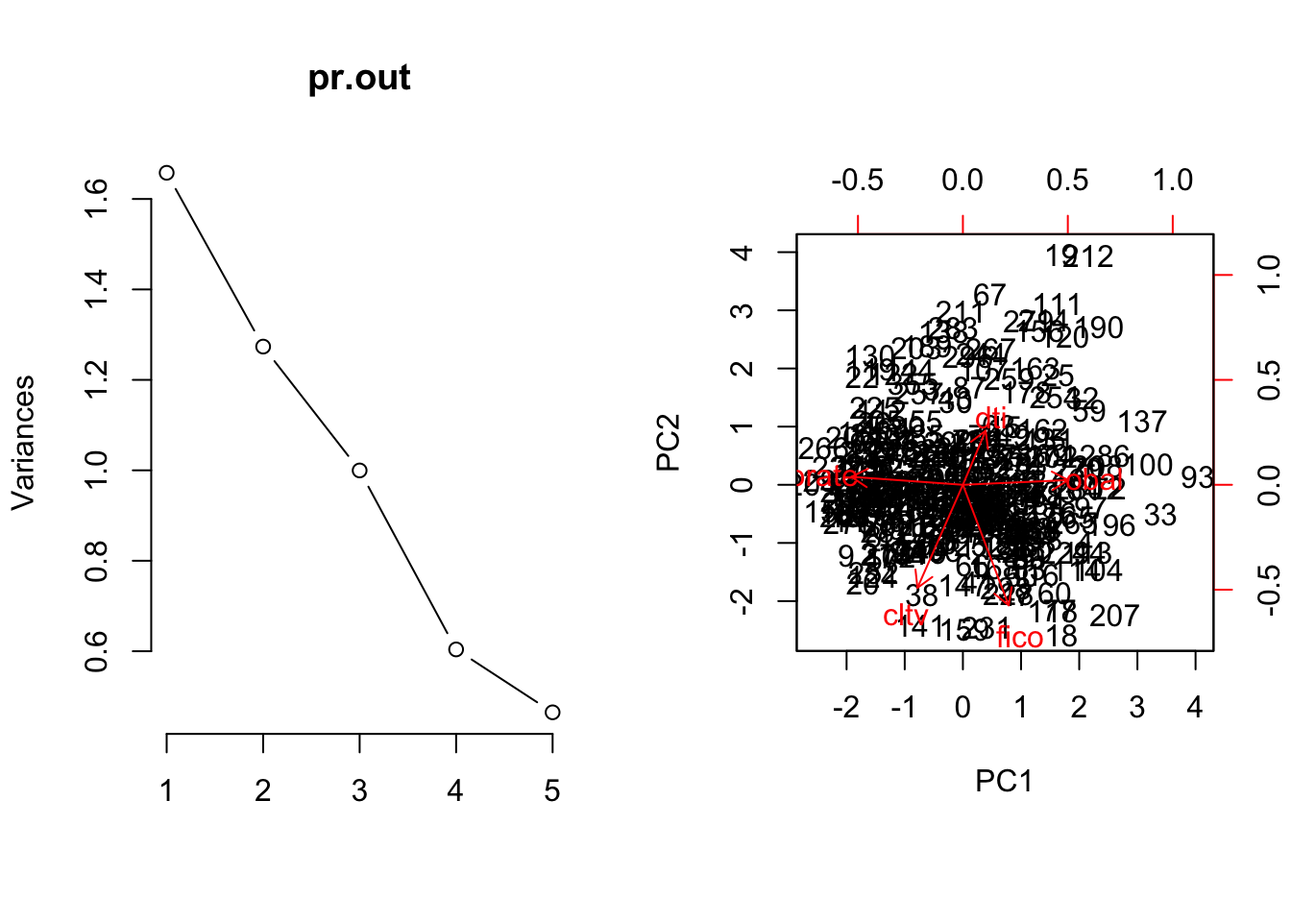
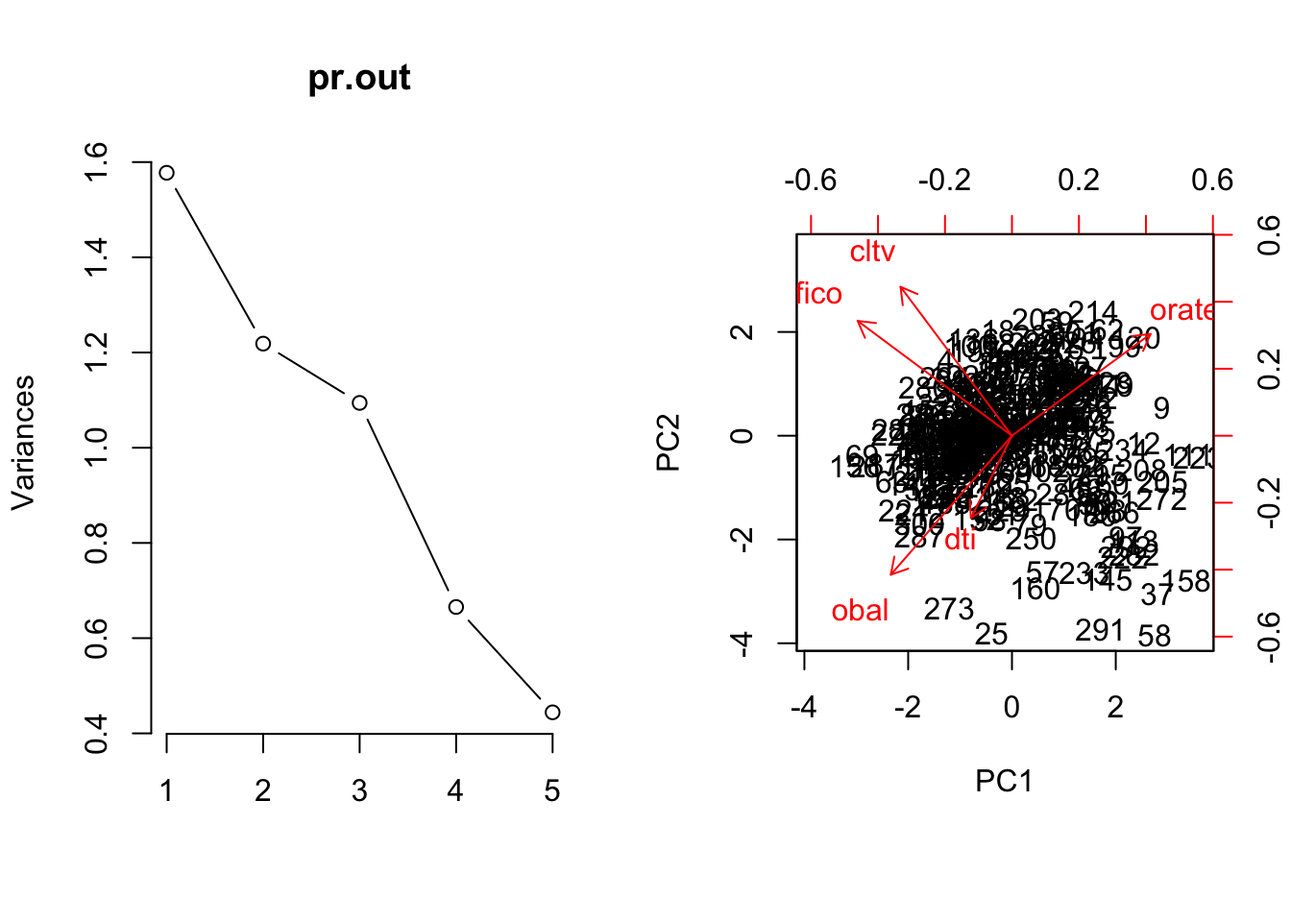
correct typos in 03

diff --git a/_book/the-subprime-mortgage-crisis-unfolds-in-early-2007-part-1.html b/_book/the-subprime-mortgage-crisis-unfolds-in-early-2007-part-1.html
@@ -33,7 +33,7 @@
   
   
 <link rel="prev" href="dectab.html">
-<link rel="next" href="runs-test-is-it-even-worthwhile-pursuing-with-all-the-nans.html">
+<link rel="next" href="the-subprime-mortgage-crisis-unfolds-in-early-2007-part-2.html">
 <script src="libs/jquery-2.2.3/jquery.min.js"></script>
 <link href="libs/gitbook-2.6.7/css/style.css" rel="stylesheet" />
 <link href="libs/gitbook-2.6.7/css/plugin-bookdown.css" rel="stylesheet" />
@@ -119,62 +119,54 @@
 </ul></li>
 <li class="chapter" data-level="4.5" data-path="the-subprime-mortgage-crisis-unfolds-in-early-2007-part-1.html"><a href="the-subprime-mortgage-crisis-unfolds-in-early-2007-part-1.html#results-at-this-point"><i class="fa fa-check"></i><b>4.5</b> Results at this point</a></li>
 </ul></li>
-<li class="chapter" data-level="5" data-path="runs-test-is-it-even-worthwhile-pursuing-with-all-the-nans.html"><a href="runs-test-is-it-even-worthwhile-pursuing-with-all-the-nans.html"><i class="fa fa-check"></i><b>5</b> runs.test: Is it even worthwhile pursuing with all the NaNs?</a><ul>
-<li class="chapter" data-level="5.1" data-path="runs-test-is-it-even-worthwhile-pursuing-with-all-the-nans.html"><a href="runs-test-is-it-even-worthwhile-pursuing-with-all-the-nans.html#principal-component-analysis"><i class="fa fa-check"></i><b>5.1</b> Principal component analysis</a></li>
+<li class="chapter" data-level="5" data-path="the-subprime-mortgage-crisis-unfolds-in-early-2007-part-2.html"><a href="the-subprime-mortgage-crisis-unfolds-in-early-2007-part-2.html"><i class="fa fa-check"></i><b>5</b> The subprime mortgage crisis unfolds in early 2007, part 2</a><ul>
+<li class="chapter" data-level="5.1" data-path="the-subprime-mortgage-crisis-unfolds-in-early-2007-part-2.html"><a href="the-subprime-mortgage-crisis-unfolds-in-early-2007-part-2.html#the-fall-of-fico"><i class="fa fa-check"></i><b>5.1</b> The fall of FICO</a></li>
+<li class="chapter" data-level="5.2" data-path="the-subprime-mortgage-crisis-unfolds-in-early-2007-part-2.html"><a href="the-subprime-mortgage-crisis-unfolds-in-early-2007-part-2.html#restructuring-the-data"><i class="fa fa-check"></i><b>5.2</b> Restructuring the data</a></li>
+<li class="chapter" data-level="5.3" data-path="the-subprime-mortgage-crisis-unfolds-in-early-2007-part-2.html"><a href="the-subprime-mortgage-crisis-unfolds-in-early-2007-part-2.html#principal-component-analysis"><i class="fa fa-check"></i><b>5.3</b> Principal component analysis</a></li>
 </ul></li>
-<li class="chapter" data-level="6" data-path="the-subprime-mortgage-crisis-unfolds-in-early-2007-part-2.html"><a href="the-subprime-mortgage-crisis-unfolds-in-early-2007-part-2.html"><i class="fa fa-check"></i><b>6</b> The subprime mortgage crisis unfolds in early 2007, part 2</a><ul>
-<li class="chapter" data-level="6.1" data-path="the-subprime-mortgage-crisis-unfolds-in-early-2007-part-2.html"><a href="the-subprime-mortgage-crisis-unfolds-in-early-2007-part-2.html#the-fall-of-fico"><i class="fa fa-check"></i><b>6.1</b> The fall of FICO</a></li>
-<li class="chapter" data-level="6.2" data-path="the-subprime-mortgage-crisis-unfolds-in-early-2007-part-2.html"><a href="the-subprime-mortgage-crisis-unfolds-in-early-2007-part-2.html#restructuring-the-data"><i class="fa fa-check"></i><b>6.2</b> Restructuring the data</a></li>
+<li class="chapter" data-level="6" data-path="the-enron-email-corpus.html"><a href="the-enron-email-corpus.html"><i class="fa fa-check"></i><b>6</b> The Enron Email Corpus</a><ul>
+<li class="chapter" data-level="6.1" data-path="the-enron-email-corpus.html"><a href="the-enron-email-corpus.html#case-description-2"><i class="fa fa-check"></i><b>6.1</b> Case Description</a></li>
+<li class="chapter" data-level="6.2" data-path="the-enron-email-corpus.html"><a href="the-enron-email-corpus.html#data-preparation"><i class="fa fa-check"></i><b>6.2</b> Data preparation</a><ul>
+<li class="chapter" data-level="6.2.1" data-path="the-enron-email-corpus.html"><a href="the-enron-email-corpus.html#preparation"><i class="fa fa-check"></i><b>6.2.1</b> Preparation</a></li>
 </ul></li>
-<li class="chapter" data-level="7" data-path="the-enron-email-corpus.html"><a href="the-enron-email-corpus.html"><i class="fa fa-check"></i><b>7</b> The Enron Email Corpus</a><ul>
-<li class="chapter" data-level="7.1" data-path="the-enron-email-corpus.html"><a href="the-enron-email-corpus.html#case-description-2"><i class="fa fa-check"></i><b>7.1</b> Case Description</a></li>
-<li class="chapter" data-level="7.2" data-path="the-enron-email-corpus.html"><a href="the-enron-email-corpus.html#data-preparation"><i class="fa fa-check"></i><b>7.2</b> Data preparation</a><ul>
-<li class="chapter" data-level="7.2.1" data-path="the-enron-email-corpus.html"><a href="the-enron-email-corpus.html#preparation"><i class="fa fa-check"></i><b>7.2.1</b> Preparation</a></li>
+<li class="chapter" data-level="6.3" data-path="the-enron-email-corpus.html"><a href="the-enron-email-corpus.html#strategy-for-exploration"><i class="fa fa-check"></i><b>6.3</b> Strategy for exploration</a><ul>
+<li class="chapter" data-level="6.3.1" data-path="the-enron-email-corpus.html"><a href="the-enron-email-corpus.html#dont-look-for-much-from-the-big-shots"><i class="fa fa-check"></i><b>6.3.1</b> Don’t look for much from the big shots</a></li>
+<li class="chapter" data-level="6.3.2" data-path="the-enron-email-corpus.html"><a href="the-enron-email-corpus.html#volume-is-not-evenly-distributed-among-users"><i class="fa fa-check"></i><b>6.3.2</b> Volume is not evenly distributed among users</a></li>
+<li class="chapter" data-level="6.3.3" data-path="the-enron-email-corpus.html"><a href="the-enron-email-corpus.html#keywords-may-not-help-much"><i class="fa fa-check"></i><b>6.3.3</b> Keywords may not help much</a></li>
+<li class="chapter" data-level="6.3.4" data-path="the-enron-email-corpus.html"><a href="the-enron-email-corpus.html#dont-neglect-time-series"><i class="fa fa-check"></i><b>6.3.4</b> Don’t neglect time series</a></li>
+<li class="chapter" data-level="6.3.5" data-path="the-enron-email-corpus.html"><a href="the-enron-email-corpus.html#avoid-the-echo-chamber"><i class="fa fa-check"></i><b>6.3.5</b> Avoid the echo chamber</a></li>
+<li class="chapter" data-level="6.3.6" data-path="the-enron-email-corpus.html"><a href="the-enron-email-corpus.html#the-real-value-proposition"><i class="fa fa-check"></i><b>6.3.6</b> The REAL value proposition</a></li>
 </ul></li>
-<li class="chapter" data-level="7.3" data-path="the-enron-email-corpus.html"><a href="the-enron-email-corpus.html#strategy-for-exploration"><i class="fa fa-check"></i><b>7.3</b> Strategy for exploration</a><ul>
-<li class="chapter" data-level="7.3.1" data-path="the-enron-email-corpus.html"><a href="the-enron-email-corpus.html#dont-look-for-much-from-the-big-shots"><i class="fa fa-check"></i><b>7.3.1</b> Don’t look for much from the big shots</a></li>
-<li class="chapter" data-level="7.3.2" data-path="the-enron-email-corpus.html"><a href="the-enron-email-corpus.html#volume-is-not-evenly-distributed-among-users"><i class="fa fa-check"></i><b>7.3.2</b> Volume is not evenly distributed among users</a></li>
-<li class="chapter" data-level="7.3.3" data-path="the-enron-email-corpus.html"><a href="the-enron-email-corpus.html#keywords-may-not-help-much"><i class="fa fa-check"></i><b>7.3.3</b> Keywords may not help much</a></li>
-<li class="chapter" data-level="7.3.4" data-path="the-enron-email-corpus.html"><a href="the-enron-email-corpus.html#dont-neglect-time-series"><i class="fa fa-check"></i><b>7.3.4</b> Don’t neglect time series</a></li>
-<li class="chapter" data-level="7.3.5" data-path="the-enron-email-corpus.html"><a href="the-enron-email-corpus.html#avoid-the-echo-chamber"><i class="fa fa-check"></i><b>7.3.5</b> Avoid the echo chamber</a></li>
-<li class="chapter" data-level="7.3.6" data-path="the-enron-email-corpus.html"><a href="the-enron-email-corpus.html#the-real-value-proposition"><i class="fa fa-check"></i><b>7.3.6</b> The REAL value proposition</a></li>
+<li class="chapter" data-level="6.4" data-path="the-enron-email-corpus.html"><a href="the-enron-email-corpus.html#some-preliminary-results"><i class="fa fa-check"></i><b>6.4</b> Some preliminary results</a><ul>
+<li class="chapter" data-level="6.4.1" data-path="the-enron-email-corpus.html"><a href="the-enron-email-corpus.html#unique-senders"><i class="fa fa-check"></i><b>6.4.1</b> Unique senders</a></li>
+<li class="chapter" data-level="6.4.2" data-path="the-enron-email-corpus.html"><a href="the-enron-email-corpus.html#unique-receivers"><i class="fa fa-check"></i><b>6.4.2</b> Unique receivers</a></li>
+<li class="chapter" data-level="6.4.3" data-path="the-enron-email-corpus.html"><a href="the-enron-email-corpus.html#senders-who-are-also-receivers"><i class="fa fa-check"></i><b>6.4.3</b> Senders who are also receivers</a></li>
+<li class="chapter" data-level="6.4.4" data-path="the-enron-email-corpus.html"><a href="the-enron-email-corpus.html#senderreceivers-with-enron-addresses"><i class="fa fa-check"></i><b>6.4.4</b> Sender/receivers with Enron addresses</a></li>
+<li class="chapter" data-level="6.4.5" data-path="the-enron-email-corpus.html"><a href="the-enron-email-corpus.html#subject-line-words"><i class="fa fa-check"></i><b>6.4.5</b> Subject line words</a></li>
+<li class="chapter" data-level="6.4.6" data-path="the-enron-email-corpus.html"><a href="the-enron-email-corpus.html#places-mentioned"><i class="fa fa-check"></i><b>6.4.6</b> Places mentioned</a></li>
+<li class="chapter" data-level="6.4.7" data-path="the-enron-email-corpus.html"><a href="the-enron-email-corpus.html#periodicity"><i class="fa fa-check"></i><b>6.4.7</b> Periodicity</a></li>
+<li class="chapter" data-level="6.4.8" data-path="the-enron-email-corpus.html"><a href="the-enron-email-corpus.html#social-networks"><i class="fa fa-check"></i><b>6.4.8</b> Social Networks</a></li>
 </ul></li>
-<li class="chapter" data-level="7.4" data-path="the-enron-email-corpus.html"><a href="the-enron-email-corpus.html#some-preliminary-results"><i class="fa fa-check"></i><b>7.4</b> Some preliminary results</a><ul>
-<li class="chapter" data-level="7.4.1" data-path="the-enron-email-corpus.html"><a href="the-enron-email-corpus.html#unique-senders"><i class="fa fa-check"></i><b>7.4.1</b> Unique senders</a></li>
-<li class="chapter" data-level="7.4.2" data-path="the-enron-email-corpus.html"><a href="the-enron-email-corpus.html#unique-receivers"><i class="fa fa-check"></i><b>7.4.2</b> Unique receivers</a></li>
-<li class="chapter" data-level="7.4.3" data-path="the-enron-email-corpus.html"><a href="the-enron-email-corpus.html#senders-who-are-also-receivers"><i class="fa fa-check"></i><b>7.4.3</b> Senders who are also receivers</a></li>
-<li class="chapter" data-level="7.4.4" data-path="the-enron-email-corpus.html"><a href="the-enron-email-corpus.html#senderreceivers-with-enron-addresses"><i class="fa fa-check"></i><b>7.4.4</b> Sender/receivers with Enron addresses</a></li>
-<li class="chapter" data-level="7.4.5" data-path="the-enron-email-corpus.html"><a href="the-enron-email-corpus.html#subject-line-words"><i class="fa fa-check"></i><b>7.4.5</b> Subject line words</a></li>
-<li class="chapter" data-level="7.4.6" data-path="the-enron-email-corpus.html"><a href="the-enron-email-corpus.html#places-mentioned"><i class="fa fa-check"></i><b>7.4.6</b> Places mentioned</a></li>
-<li class="chapter" data-level="7.4.7" data-path="the-enron-email-corpus.html"><a href="the-enron-email-corpus.html#periodicity"><i class="fa fa-check"></i><b>7.4.7</b> Periodicity</a></li>
-<li class="chapter" data-level="7.4.8" data-path="the-enron-email-corpus.html"><a href="the-enron-email-corpus.html#social-networks"><i class="fa fa-check"></i><b>7.4.8</b> Social Networks</a></li>
+<li class="chapter" data-level="6.5" data-path="the-enron-email-corpus.html"><a href="the-enron-email-corpus.html#future-work"><i class="fa fa-check"></i><b>6.5</b> Future work</a></li>
 </ul></li>
-<li class="chapter" data-level="7.5" data-path="the-enron-email-corpus.html"><a href="the-enron-email-corpus.html#future-work"><i class="fa fa-check"></i><b>7.5</b> Future work</a></li>
+<li class="chapter" data-level="7" data-path="daycare.html"><a href="daycare.html"><i class="fa fa-check"></i><b>7</b> Daycare Costs and Unexamined Assumptions</a><ul>
+<li class="chapter" data-level="7.1" data-path="daycare.html"><a href="daycare.html#case-description-3"><i class="fa fa-check"></i><b>7.1</b> Case Description</a></li>
+<li class="chapter" data-level="7.2" data-path="daycare.html"><a href="daycare.html#with-the-right-metrics"><i class="fa fa-check"></i><b>7.2</b> With the right metrics</a></li>
+<li class="chapter" data-level="7.3" data-path="daycare.html"><a href="daycare.html#takeaway"><i class="fa fa-check"></i><b>7.3</b> Takeaway</a></li>
 </ul></li>
-<li class="chapter" data-level="8" data-path="daycare.html"><a href="daycare.html"><i class="fa fa-check"></i><b>8</b> Daycare Costs and Unexamined Assumptions</a><ul>
-<li class="chapter" data-level="8.1" data-path="daycare.html"><a href="daycare.html#case-description-3"><i class="fa fa-check"></i><b>8.1</b> Case Description</a></li>
-<li class="chapter" data-level="8.2" data-path="daycare.html"><a href="daycare.html#with-the-right-metrics"><i class="fa fa-check"></i><b>8.2</b> With the right metrics</a></li>
-<li class="chapter" data-level="8.3" data-path="daycare.html"><a href="daycare.html#takeaway"><i class="fa fa-check"></i><b>8.3</b> Takeaway</a></li>
+<li class="chapter" data-level="8" data-path="assorted-examples-of-toolmaking.html"><a href="assorted-examples-of-toolmaking.html"><i class="fa fa-check"></i><b>8</b> Assorted Examples of Toolmaking</a><ul>
+<li class="chapter" data-level="8.1" data-path="assorted-examples-of-toolmaking.html"><a href="assorted-examples-of-toolmaking.html#the-short-genome-file-day-to-day-python"><i class="fa fa-check"></i><b>8.1</b> The Short Genome File: Day-to-Day Python</a><ul>
+<li class="chapter" data-level="8.1.1" data-path="assorted-examples-of-toolmaking.html"><a href="assorted-examples-of-toolmaking.html#case-description-4"><i class="fa fa-check"></i><b>8.1.1</b> Case Description</a></li>
+<li class="chapter" data-level="8.1.2" data-path="assorted-examples-of-toolmaking.html"><a href="assorted-examples-of-toolmaking.html#conversion-problem"><i class="fa fa-check"></i><b>8.1.2</b> Conversion Problem</a></li>
+<li class="chapter" data-level="8.1.3" data-path="assorted-examples-of-toolmaking.html"><a href="assorted-examples-of-toolmaking.html#everyday-solution"><i class="fa fa-check"></i><b>8.1.3</b> Everyday Solution</a></li>
 </ul></li>
-<li class="chapter" data-level="9" data-path="assorted-examples-of-toolmaking.html"><a href="assorted-examples-of-toolmaking.html"><i class="fa fa-check"></i><b>9</b> Assorted Examples of Toolmaking</a><ul>
-<li class="chapter" data-level="9.1" data-path="assorted-examples-of-toolmaking.html"><a href="assorted-examples-of-toolmaking.html#the-short-genome-file-day-to-day-python"><i class="fa fa-check"></i><b>9.1</b> The Short Genome File: Day-to-Day Python</a><ul>
-<li class="chapter" data-level="9.1.1" data-path="assorted-examples-of-toolmaking.html"><a href="assorted-examples-of-toolmaking.html#case-description-4"><i class="fa fa-check"></i><b>9.1.1</b> Case Description</a></li>
-<li class="chapter" data-level="9.1.2" data-path="assorted-examples-of-toolmaking.html"><a href="assorted-examples-of-toolmaking.html#conversion-problem"><i class="fa fa-check"></i><b>9.1.2</b> Conversion Problem</a></li>
-<li class="chapter" data-level="9.1.3" data-path="assorted-examples-of-toolmaking.html"><a href="assorted-examples-of-toolmaking.html#everyday-solution"><i class="fa fa-check"></i><b>9.1.3</b> Everyday Solution</a></li>
+<li class="chapter" data-level="8.2" data-path="assorted-examples-of-toolmaking.html"><a href="assorted-examples-of-toolmaking.html#hard-but-simple-parsing-yaml-files-in-haskell"><i class="fa fa-check"></i><b>8.2</b> Hard but simple – parsing YAML files in Haskell</a></li>
+<li class="chapter" data-level="8.3" data-path="assorted-examples-of-toolmaking.html"><a href="assorted-examples-of-toolmaking.html#contextual-awareness"><i class="fa fa-check"></i><b>8.3</b> Contextual Awareness</a></li>
+<li class="chapter" data-level="8.4" data-path="assorted-examples-of-toolmaking.html"><a href="assorted-examples-of-toolmaking.html#minimalism-throws-you-into-the-pool"><i class="fa fa-check"></i><b>8.4</b> Minimalism Throws You into the Pool</a></li>
+<li class="chapter" data-level="8.5" data-path="assorted-examples-of-toolmaking.html"><a href="assorted-examples-of-toolmaking.html#parsing-system-date-strings-into-python-datetime-objects"><i class="fa fa-check"></i><b>8.5</b> Parsing system date strings into Python datetime objects</a></li>
+<li class="chapter" data-level="8.6" data-path="assorted-examples-of-toolmaking.html"><a href="assorted-examples-of-toolmaking.html#combination-of-k-items-taken-n-at-a-time"><i class="fa fa-check"></i><b>8.6</b> Combination of k items, taken n at a time</a></li>
+<li class="chapter" data-level="8.7" data-path="assorted-examples-of-toolmaking.html"><a href="assorted-examples-of-toolmaking.html#flexbison-to-compile-data-parser-for-june-20-2018-form"><i class="fa fa-check"></i><b>8.7</b> Flex/Bison to compile data parser for June 20, 2018 form</a></li>
 </ul></li>
-<li class="chapter" data-level="9.2" data-path="assorted-examples-of-toolmaking.html"><a href="assorted-examples-of-toolmaking.html#hard-but-simple-parsing-yaml-files-in-haskell"><i class="fa fa-check"></i><b>9.2</b> Hard but simple – parsing YAML files in Haskell</a></li>
-<li class="chapter" data-level="9.3" data-path="assorted-examples-of-toolmaking.html"><a href="assorted-examples-of-toolmaking.html#contextual-awareness"><i class="fa fa-check"></i><b>9.3</b> Contextual Awareness</a></li>
-<li class="chapter" data-level="9.4" data-path="assorted-examples-of-toolmaking.html"><a href="assorted-examples-of-toolmaking.html#minimalism-throws-you-into-the-pool"><i class="fa fa-check"></i><b>9.4</b> Minimalism Throws You into the Pool</a></li>
-<li class="chapter" data-level="9.5" data-path="assorted-examples-of-toolmaking.html"><a href="assorted-examples-of-toolmaking.html#parsing-system-date-strings-into-python-datetime-objects"><i class="fa fa-check"></i><b>9.5</b> Parsing system date strings into Python datetime objects</a></li>
-<li class="chapter" data-level="9.6" data-path="assorted-examples-of-toolmaking.html"><a href="assorted-examples-of-toolmaking.html#combination-of-k-items-taken-n-at-a-time"><i class="fa fa-check"></i><b>9.6</b> Combination of k items, taken n at a time</a></li>
-<li class="chapter" data-level="9.7" data-path="assorted-examples-of-toolmaking.html"><a href="assorted-examples-of-toolmaking.html#flexbison-to-compile-data-parser-for-june-20-2018-form"><i class="fa fa-check"></i><b>9.7</b> Flex/Bison to compile data parser for June 20, 2018 form</a></li>
-</ul></li>
-<li class="chapter" data-level="10" data-path="runs-test.html"><a href="runs-test.html"><i class="fa fa-check"></i><b>10</b> Runs test</a></li>
-<li class="chapter" data-level="11" data-path="unsupervised-learning.html"><a href="unsupervised-learning.html"><i class="fa fa-check"></i><b>11</b> Unsupervised learning</a><ul>
-<li class="chapter" data-level="11.1" data-path="unsupervised-learning.html"><a href="unsupervised-learning.html#pca"><i class="fa fa-check"></i><b>11.1</b> PCA</a></li>
-<li class="chapter" data-level="11.2" data-path="unsupervised-learning.html"><a href="unsupervised-learning.html#kmeans-how-diff-knn"><i class="fa fa-check"></i><b>11.2</b> KMeans (how diff KNN?)</a></li>
-</ul></li>
-<li class="chapter" data-level="12" data-path="does-km-or-other-survival-analysis-help.html"><a href="does-km-or-other-survival-analysis-help.html"><i class="fa fa-check"></i><b>12</b> Does KM or other survival analysis help?</a></li>
 </ul>
 
       </nav>
@@ -204,13 +196,13 @@
 <li>How did our pools of mortgage loans differ?</li>
 <li>What do we mean by performance?</li>
 </ul>
-<p>We could begin, I suggested, by looking at the tape for the January 2006 deal, <a href="https://www.sec.gov/Archives/edgar/data/1119605/000114420406002461/v033798_fwp.htm">LBMLT 2006-1</a>, to see how the origination characteristics differed from competing deals. We could also pull the monthly report that showed last payment date, delinquency status and other data. He said that he’d try to get that together, but it wasn’t really his job.</p>
+<p>We could begin, I suggested, by looking at the tape for the January 2006 deal, [LBMLT 2006-1], to see how the origination characteristics differed from competing deals. We could also pull the monthly report that showed last payment date, delinquency status and other data. He said that he’d try to get that together, but it wasn’t really his job.</p>
 <p>This is the case that Donald Rumsfelt (<em>known knowns, known unknowns and unknown unknowns</em>) missed: <strong>unknown knowns,</strong> information we had that was scattered throughout the organization.</p>
 <p>It became apparent that I wasn’t going to get any help dealing with my rising sense of unease that the company faced potential liabilities as a result of these transactions. I was senior enough to set my own priorities so I decided to assemble the data to see what I could make of it.</p>
 </div>
 <div id="data-wrangling" class="section level2">
 <h2><span class="header-section-number">4.2</span> Data Wrangling</h2>
-<p>There were 14 transactions issued in 2006, all of which were accompanied by tapes similar to the <a href="https://www.sec.gov/Archives/edgar/data/1119605/000114420406002461/v033798_fwp.htm">LBMLT 2006-1</a> deal with origination data. I also looked at default data, from over 100 spreadsheets, many with manual changes, that had to be beaten into submission.</p>
+<p>There were 14 transactions issued in 2006, all of which were accompanied by tapes similar to the [LBMLT 2006-1] deal with origination data. I also looked at default data, from over 100 spreadsheets, many with manual changes, that had to be beaten into submission.</p>
 <p>Fortunately the origination tapes, while wrapped in HTML, were tagged with</p>
 <pre><code>&lt;pre&gt;payload&lt;/pre&gt; </code></pre>
 <p>pairs, making their extraction easy. One of the typical tasks was converting dates into ISO form – from 3/6/2006, say, to 2006-03-06, for which I turned to Python.</p>
@@ -348,12 +340,12 @@ def make_date(entry):
 <h2><span class="header-section-number">4.4</span> Preliminary analysis, based on FICO scores</h2>
 <div id="ficos-importance" class="section level3">
 <h3><span class="header-section-number">4.4.1</span> FICO’s importance</h3>
-<p>In 1995, Freddie Mac advised lenders that it had found that consumer credit scores developed by Fair, Issac and Company, Inc. (<strong>FICO</strong> scores) strongly predicted the likelihood of default on mortgage loans. Freddie Mac’s communication is reproduced as Attachment 2 in testimony before the U.S. House Committee on Oversight and Government Reform, the <a href="https://democrats-oversight.house.gov/sites/democrats.oversight.house.gov/files/documents/Fannie%20Freddie%20Testimony%20of%20Edward%20Pinto%2012.9.08%20written%20submission%20Full.pdf">Pinto testimony</a>, beginning at page 28 of the pdf.</p>
+<p>In 1995, Freddie Mac advised lenders that it had found that consumer credit scores developed by Fair, Issac and Company, Inc. (<strong>FICO</strong> scores) strongly predicted the likelihood of default on mortgage loans. Freddie Mac’s communication is reproduced as Attachment 2 in testimony before the U.S. House Committee on Oversight and Government Reform, the [Pinto testimony], beginning at page 28 of the pdf.</p>
 <p>A traditional description of the limitations of credit score is similar to the following:</p>
 <blockquote>
 <p>Third-party credit reporting organizations provide credit scores as an aid to lenders in evaluating the creditworthiness of borrowers. Although different credit reporting organizations use different methodologies, higher credit scores indicate greater creditworthiness. Credit scores do not necessarily correspond to the probability of default over the life of the related mortgage loan because they reflect past credit history, rather than an assessment of future payment performance. In addition, the credit scores shown were collected from a variety of sources over a period of weeks, months or longer, and the credit scores do not necessarily reflect the credit scores that would be reported as of the date of this prospectus supplement. Credit scores also only indicate general consumer creditworthiness, and credit scores are not intended to specifically apply to mortgage debt. Therefore, credit scores should not be considered as an accurate predictor of the likelihood of repayment of the related mortgage loans.</p>
 </blockquote>
-<p><em>See</em> the <a href="https://goo.gl/uhX1Pc">credit disclosure</a> beginning on page S-18 by a Washington Mutual affiliate in 2002.</p>
+<p><em>See</em> the [credit disclosure] beginning on page S-18 by a Washington Mutual affiliate in 2002.</p>
 <p>The rating agencies and buyers involved in residential mortgage backed securities, however, attached considerable importance to credit scores, generically referred to as FICOs. Therefore, the FICO composition was an obvious starting point.</p>
 <p><img src="_main_files/figure-html/setup4-1.png" width="672" /></p>
 </div>
@@ -1055,7 +1047,7 @@ LBMLT 2006-WL3
 ##  Shapiro-Wilk normality test
 ## 
 ## data:  smpB$fico
-## W = 0.99446, p-value = 5.993e-13</code></pre>
+## W = 0.99529, p-value = 1.166e-11</code></pre>
 <pre><code>## 
 ##  Shapiro-Wilk normality test
 ## 
@@ -1067,7 +1059,8 @@ LBMLT 2006-WL3
 </div>
 <div id="results-at-this-point" class="section level2">
 <h2><span class="header-section-number">4.5</span> Results at this point</h2>
-<p>The report of “poor performance” of the 2006 mortgage loans as a group was well founded, based on the 31219 loans that survived into 2007 and had an 11-month payment history. Only 46 loans had a satisfactory record, less than 0.</p>
+<p>The report of “poor performance” of the 2006 mortgage loans as a group was well founded, based on the 31219 loans that survived into 2007 and had an 11-month payment history. Only 46 loans had a satisfactory record, less than 0.15% of the pool.</p>
+
 </div>
 </div>
             </section>
@@ -1076,7 +1069,7 @@ LBMLT 2006-WL3
         </div>
       </div>
 <a href="dectab.html" class="navigation navigation-prev " aria-label="Previous page"><i class="fa fa-angle-left"></i></a>
-<a href="runs-test-is-it-even-worthwhile-pursuing-with-all-the-nans.html" class="navigation navigation-next " aria-label="Next page"><i class="fa fa-angle-right"></i></a>
+<a href="the-subprime-mortgage-crisis-unfolds-in-early-2007-part-2.html" class="navigation navigation-next " aria-label="Next page"><i class="fa fa-angle-right"></i></a>
     </div>
   </div>
 <script src="libs/gitbook-2.6.7/js/app.min.js"></script>

diff --git a/_book/the-subprime-mortgage-crisis-unfolds-in-early-2007-part-2.html b/_book/the-subprime-mortgage-crisis-unfolds-in-early-2007-part-2.html
@@ -25,7 +25,7 @@
 <meta name="author" content="Richard Careaga">
 
 
-<meta name="date" content="2018-06-30">
+<meta name="date" content="2018-07-01">
 
   <meta name="viewport" content="width=device-width, initial-scale=1">
   <meta name="apple-mobile-web-app-capable" content="yes">
@@ -117,11 +117,11 @@
 <li class="chapter" data-level="4.4.5" data-path="the-subprime-mortgage-crisis-unfolds-in-early-2007-part-1.html"><a href="the-subprime-mortgage-crisis-unfolds-in-early-2007-part-1.html#reduced-data-set"><i class="fa fa-check"></i><b>4.4.5</b> Reduced data set</a></li>
 </ul></li>
 <li class="chapter" data-level="4.5" data-path="the-subprime-mortgage-crisis-unfolds-in-early-2007-part-1.html"><a href="the-subprime-mortgage-crisis-unfolds-in-early-2007-part-1.html#results-at-this-point"><i class="fa fa-check"></i><b>4.5</b> Results at this point</a></li>
-<li class="chapter" data-level="4.6" data-path="the-subprime-mortgage-crisis-unfolds-in-early-2007-part-1.html"><a href="the-subprime-mortgage-crisis-unfolds-in-early-2007-part-1.html#next-question"><i class="fa fa-check"></i><b>4.6</b> Next question</a></li>
 </ul></li>
 <li class="chapter" data-level="5" data-path="the-subprime-mortgage-crisis-unfolds-in-early-2007-part-2.html"><a href="the-subprime-mortgage-crisis-unfolds-in-early-2007-part-2.html"><i class="fa fa-check"></i><b>5</b> The subprime mortgage crisis unfolds in early 2007, part 2</a><ul>
 <li class="chapter" data-level="5.1" data-path="the-subprime-mortgage-crisis-unfolds-in-early-2007-part-2.html"><a href="the-subprime-mortgage-crisis-unfolds-in-early-2007-part-2.html#the-fall-of-fico"><i class="fa fa-check"></i><b>5.1</b> The fall of FICO</a></li>
 <li class="chapter" data-level="5.2" data-path="the-subprime-mortgage-crisis-unfolds-in-early-2007-part-2.html"><a href="the-subprime-mortgage-crisis-unfolds-in-early-2007-part-2.html#restructuring-the-data"><i class="fa fa-check"></i><b>5.2</b> Restructuring the data</a></li>
+<li class="chapter" data-level="5.3" data-path="the-subprime-mortgage-crisis-unfolds-in-early-2007-part-2.html"><a href="the-subprime-mortgage-crisis-unfolds-in-early-2007-part-2.html#principal-component-analysis"><i class="fa fa-check"></i><b>5.3</b> Principal component analysis</a></li>
 </ul></li>
 <li class="chapter" data-level="6" data-path="the-enron-email-corpus.html"><a href="the-enron-email-corpus.html"><i class="fa fa-check"></i><b>6</b> The Enron Email Corpus</a><ul>
 <li class="chapter" data-level="6.1" data-path="the-enron-email-corpus.html"><a href="the-enron-email-corpus.html#case-description-2"><i class="fa fa-check"></i><b>6.1</b> Case Description</a></li>
@@ -166,11 +166,6 @@
 <li class="chapter" data-level="8.6" data-path="assorted-examples-of-toolmaking.html"><a href="assorted-examples-of-toolmaking.html#combination-of-k-items-taken-n-at-a-time"><i class="fa fa-check"></i><b>8.6</b> Combination of k items, taken n at a time</a></li>
 <li class="chapter" data-level="8.7" data-path="assorted-examples-of-toolmaking.html"><a href="assorted-examples-of-toolmaking.html#flexbison-to-compile-data-parser-for-june-20-2018-form"><i class="fa fa-check"></i><b>8.7</b> Flex/Bison to compile data parser for June 20, 2018 form</a></li>
 </ul></li>
-<li class="chapter" data-level="9" data-path="runs-test.html"><a href="runs-test.html"><i class="fa fa-check"></i><b>9</b> Runs test</a></li>
-<li class="chapter" data-level="10" data-path="unsupervised-learning.html"><a href="unsupervised-learning.html"><i class="fa fa-check"></i><b>10</b> Unsupervised learning</a><ul>
-<li class="chapter" data-level="10.1" data-path="unsupervised-learning.html"><a href="unsupervised-learning.html#pca"><i class="fa fa-check"></i><b>10.1</b> PCA</a></li>
-<li class="chapter" data-level="10.2" data-path="unsupervised-learning.html"><a href="unsupervised-learning.html#kmeans-how-diff-knn"><i class="fa fa-check"></i><b>10.2</b> KMeans (how diff KNN?)</a></li>
-</ul></li>
 </ul>
 
       </nav>
@@ -200,7 +195,7 @@
 <h2><span class="header-section-number">5.2</span> Restructuring the data</h2>
 <p>Some of the testing of FICO as a useful metric involved subsetting the data. There were many more variables than the ones used, some of them categorical and some categorical coded as numeric. One potentially useful variable is location, because we know that real estate value are location sensitive. We have four location fields in the database, all derived from the postal zip code:</p>
 <ul>
-<li><p>The zip code itself, which is generally either much smaller or much larger than the real estate market, and also changes at the convenience of the postal service. <em>See</em> the discussion at <a href="https://www.ncbi.nlm.nih.gov/pmc/articles/PMC1762013/">On the use of ZIP codes and ZIP code tabulation areas (ZCTAs) for the spatial analysis of epidemiological data</a>.</p></li>
+<li><p>The zip code itself, which is generally either much smaller or much larger than the real estate market, and also changes at the convenience of the postal service. <em>See</em> the discussion at [On the use of ZIP codes and ZIP code tabulation areas (ZCTAs) for the spatial analysis of epidemiological data].</p></li>
 <li><p>The metropolitan area derived from the U.S. Census ZIP code tabulation area, but covers a larger area than most real estate markets</p></li>
 <li><p>Longitude and latitude dervived from the ZCTA’s, used for mapping</p></li>
 </ul>
@@ -216,6 +211,7 @@
 | fico      | double | YES  |     | NULL    |       |
 | dti       | double | YES  |     | NULL    |       |
 | cltv      | double | YES  |     | NULL    |       |
+| obal      | double | YES  |     | NULL    |       |
 | orate     | double | YES  |     | NULL    |       |
 | grade     | text   | YES  |     | NULL    |       |
 | dtype     | text   | YES  |     | NULL    |       |
@@ -229,8 +225,16 @@
 | zip       | text   | YES  |     | NULL    |       |
 | perf      | text   | YES  |     | NULL    |       |
 +-----------+--------+------+-----+---------+-------+
-18 rows in set (0.00 sec)</code></pre>
-<p>Between the first row (a record identifier) and the last row (the performance category) are the sixteen variables we have to predict the performance outcome. For the almost 100,000 records, that is 1.5 million pieces of information. Technically we are in 16-dimensional space, and we need a way of flattening the dimensionality to be able to question the data.</p>
+19 rows in set (0.00 sec)</code></pre>
+<p>Between the first two rows (record identifiers) and the last row (the performance category) are the 17 variables we have to predict the performance outcome. For the almost 100,000 records, that is 1.7 million pieces of information. Technically we are in 17-dimensional space, and we need a way of flattening the dimensionality to be able to question the data.</p>
+</div>
+<div id="principal-component-analysis" class="section level2">
+<h2><span class="header-section-number">5.3</span> Principal component analysis</h2>
+<p><img src="_main_files/figure-html/psa1-1.png" width="672" /></p>
+<p>The cumulative variance is 0.257, 0.483, 0.697, 0.864, 1</p>
+<p>From the loadings chart on the right, we see that <em>obal</em> (the original amount of the loan) and <em>orate</em> (the original rate of interest) are negatively correlated, -0.451. The remaining continuous variables, <em>fico</em>, <em>dti</em> (debt-to-income ratio), <em>cltv</em> (the ratio of first and second loans to the value of the mortgaged property), have small correlations:</p>
+<p>The variables <em>fico</em> and <em>cltv</em> have some correlation (0.295), while <em>fico</em> and <em>dti</em> (-0.036) and <em>dti</em> and <em>cltv</em> (0.121) have low correlations.</p>
+<p>Next, we can use the three highest principal components for k-means clustering.</p>
 
 </div>
 </div>
